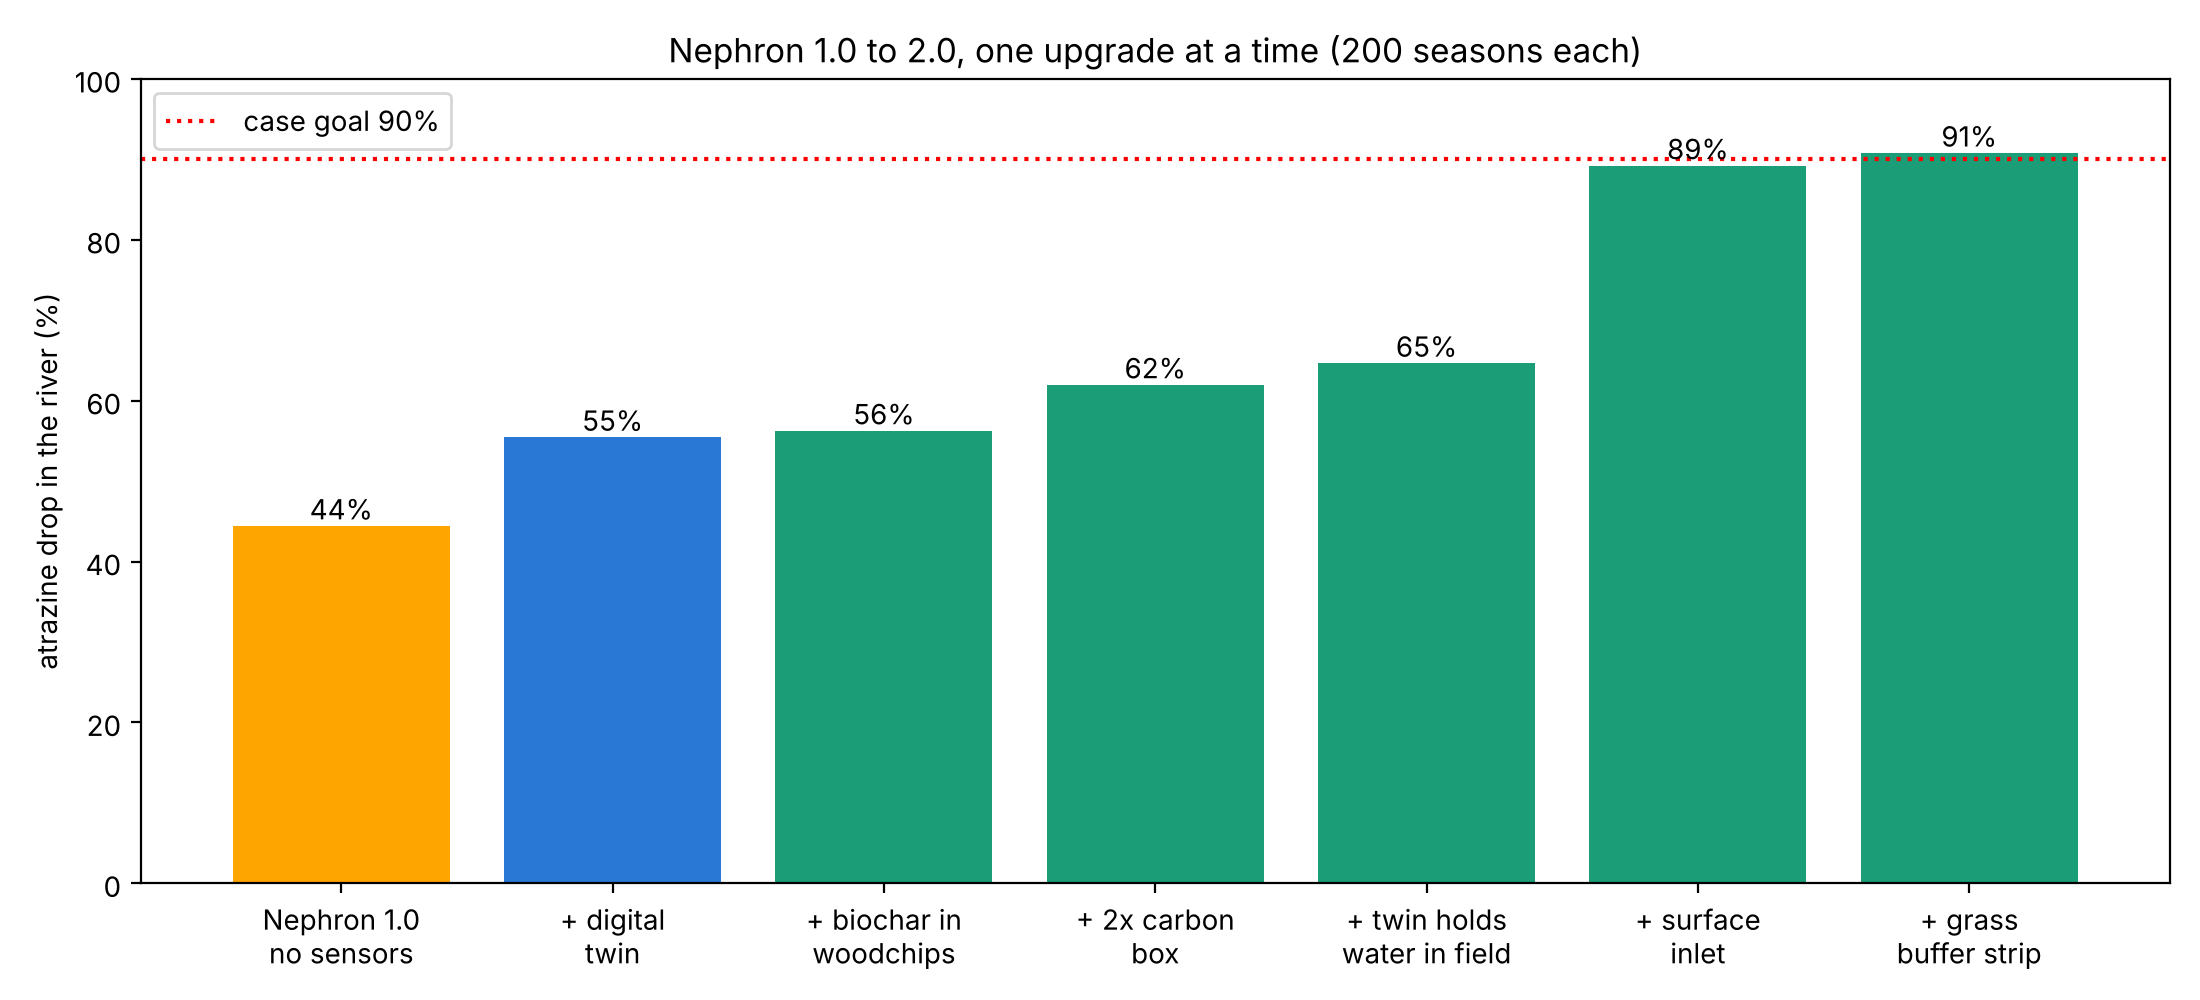
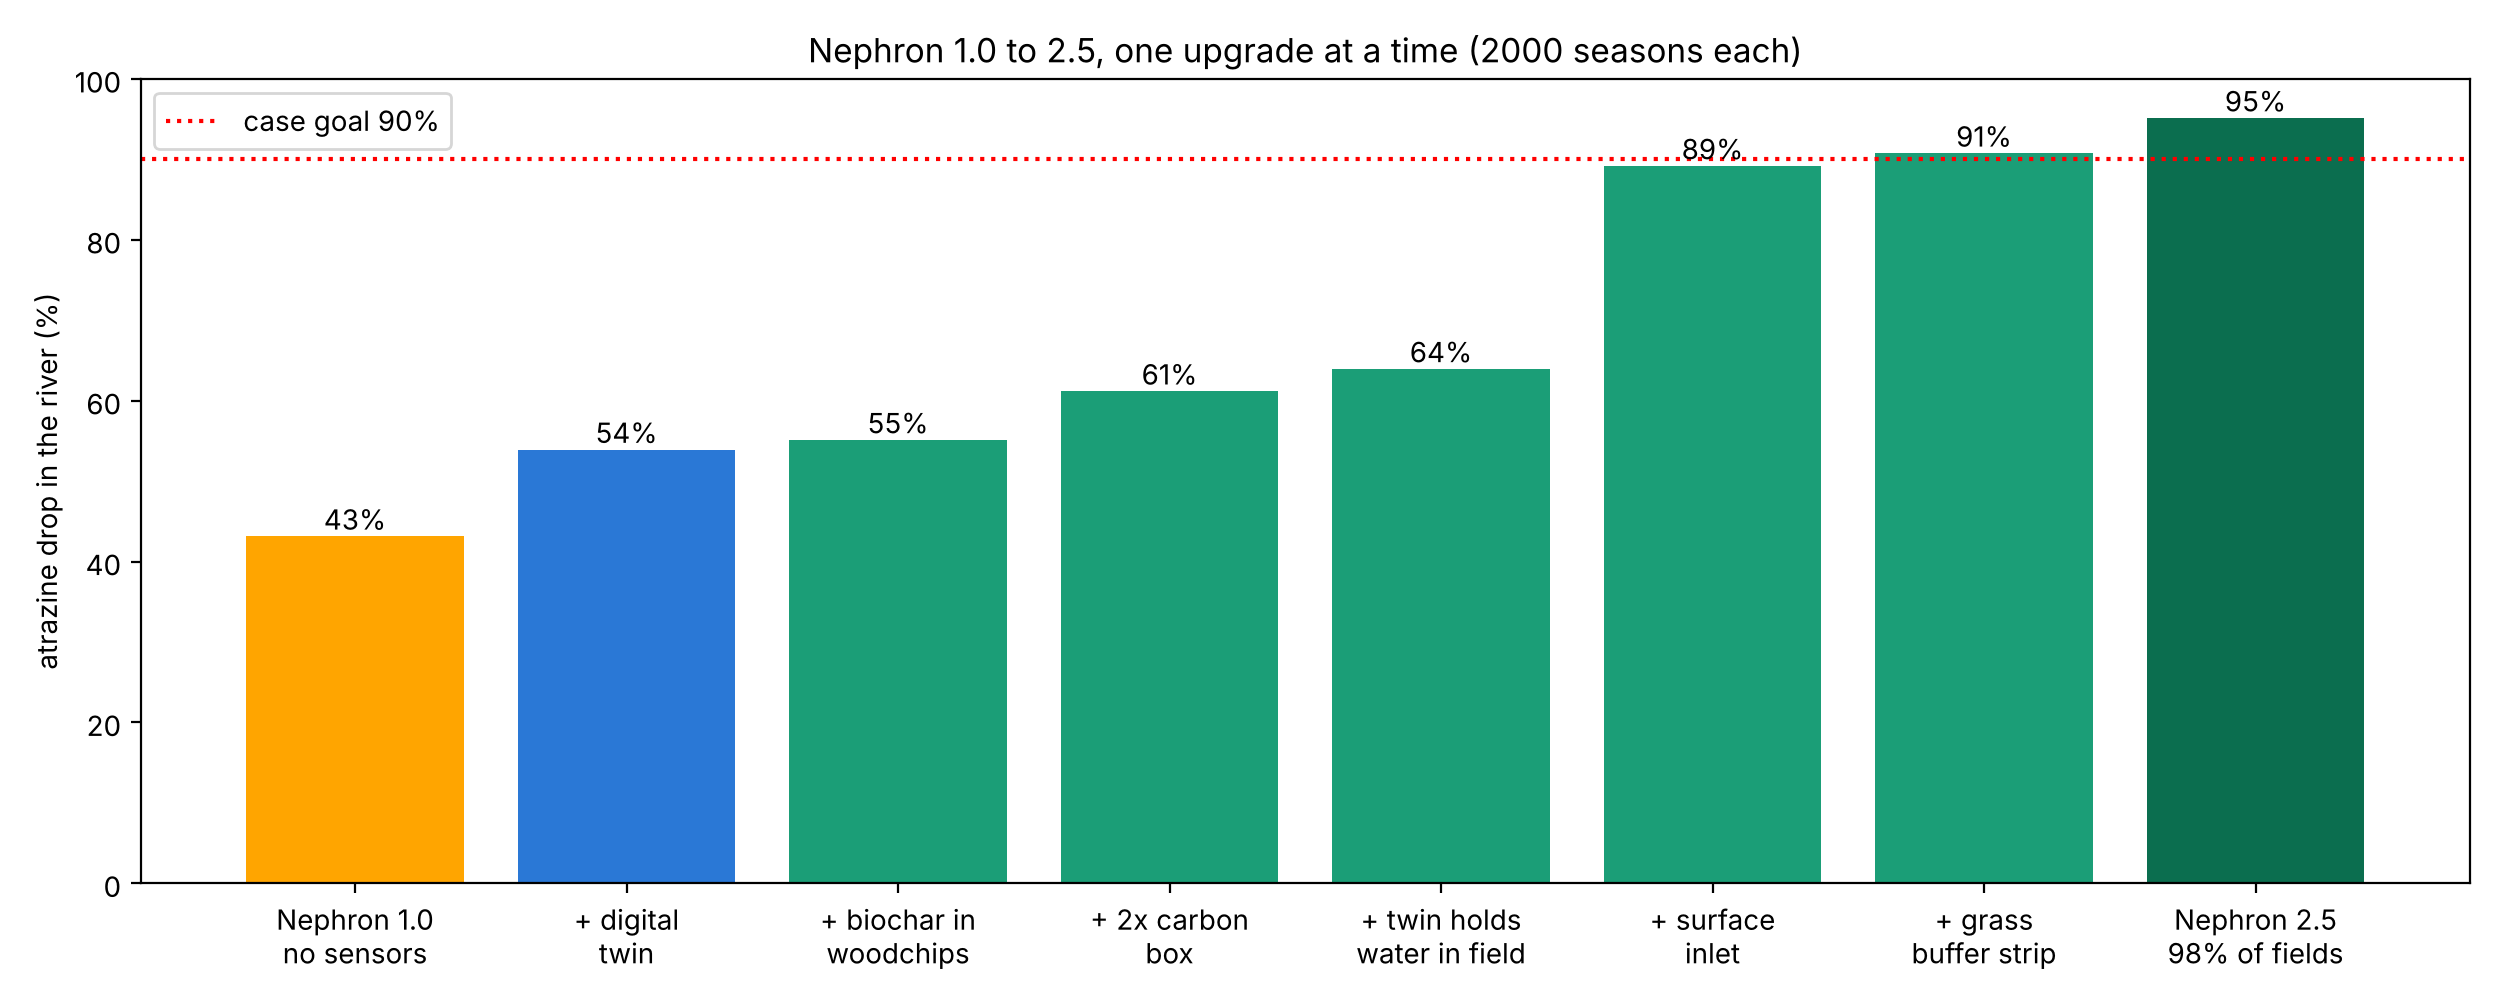
Nephron 2.5: more field storage, later carbon swap, better berm; 2000 seasons; river drop 95%

diff --git a/dcbas_sim.py b/dcbas_sim.py
@@ -8,6 +8,8 @@ SURF_K = 0.28
 
 V1 = dict(wood=0.25, cap=3.5, holds=50, store=0, swap_at=0.85, inlet=0, buffer=0)
 V2 = dict(wood=0.40, cap=5.0, holds=100, store=60, swap_at=0.93, inlet=0.9, buffer=0.5)
+V3 = dict(V2, store=100, swap_at=0.96, inlet=0.95)
+SEASONS = 2000
 
 
 def weather(seed):
@@ -88,15 +90,15 @@ def season(seed, twin, wood, cap, holds, store, swap_at, inlet, buffer):
 
 
 def median_run(twin, design):
-    runs = [season(s, twin, **design) for s in range(200)]
+    runs = [season(s, twin, **design) for s in range(SEASONS)]
     lost = {k: np.median([r[k] for r in runs]) for k in runs[0]}
-    field = 1 - np.median([sum(r.values()) for r in runs])
+    field = np.array([1 - sum(r.values()) for r in runs])
     return field, lost
 
 
 kg = RIVER_CONC * RIVER_FLOW * 86400 / 1e6
 print(f"River: {RIVER_FLOW:.1f} m3/s at {RIVER_CONC} ug/L = {kg:.1f} kg atrazine per day")
-print(f"Nephron on {COVERAGE:.0%} of fields, 200 random seasons each\n")
+print(f"{SEASONS} random seasons per design\n")
 
 steps = [
     ("Nephron 1.0\nno sensors", False, V1),
@@ -106,22 +108,24 @@ steps = [
     ("+ twin holds\nwater in field", True, dict(V2, inlet=0, buffer=0)),
     ("+ surface\ninlet", True, dict(V2, buffer=0)),
     ("+ grass\nbuffer strip", True, V2),
+    ("Nephron 2.5\n98% of fields", True, V3, 0.98),
 ]
 drops = []
-for name, twin, design in steps:
+for name, twin, design, *cov in steps:
     field, lost = median_run(twin, design)
-    river = field * COVERAGE
+    rivers = field * (cov[0] if cov else COVERAGE)
+    river = np.median(rivers)
     drops.append(river * 100)
-    print(f"{name.replace(chr(10), ' '):28s} river drops {river:.1%}  ({RIVER_CONC} -> {RIVER_CONC * (1 - river):.3f} ug/L)")
+    print(f"{name.replace(chr(10), ' '):28s} river drops {river:.1%}  ({RIVER_CONC} -> {RIVER_CONC * (1 - river):.3f} ug/L)  wet year {np.percentile(rivers, 10):.0%}  seasons over 90%: {np.mean(rivers >= 0.9):.0%}")
     print("    lost to: " + ", ".join(f"{k} {max(v, 0):.1%}" for k, v in lost.items()))
 
-plt.figure(figsize=(11, 5))
-bars = plt.bar([s[0] for s in steps], drops, color=["orange", "#2a78d6"] + ["#1b9e77"] * 5)
+plt.figure(figsize=(12.5, 5))
+bars = plt.bar([s[0] for s in steps], drops, color=["orange", "#2a78d6"] + ["#1b9e77"] * 5 + ["#0b6e4f"])
 plt.bar_label(bars, fmt="%.0f%%")
 plt.axhline(90, ls=":", color="red", label="case goal 90%")
 plt.ylabel("atrazine drop in the river (%)")
 plt.ylim(0, 100)
-plt.title("Nephron 1.0 to 2.0, one upgrade at a time (200 seasons each)")
+plt.title(f"Nephron 1.0 to 2.5, one upgrade at a time ({SEASONS} seasons each)")
 plt.legend()
 plt.tight_layout()
 plt.savefig("nephron2_ladder.png", dpi=200)

diff --git a/README.md b/README.md
@@ -10,15 +10,16 @@ Built for the **Waterloo Engineering Competition (Bio-Engineering, Nov 2026)**. 
 
 A filter without sensors is run on a calendar (swap the carbon on a fixed day, let storms overflow). The twin watches flow and filter saturation and acts instead: it **holds water before a forecast storm**, **releases it slowly afterwards**, and **swaps the carbon when removal drops below 85%**.
 
-| Over 200 simulated seasons, Nephron on 95% of fields | River atrazine drop | River concentration |
-|---|---|---|
-| Nephron 1.0, calendar only (no sensors) | 44% | 0.33 µg/L |
-| Nephron 1.0 with the digital twin | 55% | 0.27 µg/L |
-| **Nephron 2.0 with the digital twin** | **91%** | **0.055 µg/L** |
+| 2000 simulated seasons each | River atrazine drop (median) | Wet year (worst 10%) | Seasons over 90% |
+|---|---|---|---|
+| Nephron 1.0, calendar only (no sensors), 95% of fields | 43% | 29% | 0% |
+| Nephron 1.0 with the digital twin, 95% of fields | 54% | 41% | 0% |
+| Nephron 2.0 with the digital twin, 95% of fields | 91% | 87% | 71% |
+| **Nephron 2.5, 98% of fields** | **95%** (0.029 µg/L) | **93%** | **97%** |
 
 Starting point: 2.0 kg/day of atrazine (0.6 µg/L at 38.6 m³/s). The case goal is a 90% drop.
 
-![Nephron 1.0 to 2.0, one upgrade at a time](docs/nephron2-ladder.png)
+![Nephron 1.0 to 2.5, one upgrade at a time](docs/nephron2-ladder.png)
 
 ## Nephron 2.0: what changed
 
@@ -32,11 +33,24 @@ Version 1.0 lost atrazine in three places: surface runoff that never reaches the
 | Surface inlet (riser + low berm) sends ponded runoff into the inlet box | runoff | 90% of surface runoff treated |
 | Grass buffer strip for the rest | runoff | 50% of the remaining runoff removed |
 
-The surface inlet is the biggest step: the filter can only clean water that reaches it. The median season crosses 90%; about 3 seasons in 4 do.
+The surface inlet is the biggest step: the filter can only clean water that reaches it.
+
+## Nephron 2.5: making it hold in wet years
+
+Version 2.0 passes 90% in a typical season but only 71% of seasons. 2.5 changes three settings, no new parts:
+
+| Change | Why |
+|---|---|
+| Field storage 60 → 100 | Wet years overflow first; more held water protects the bad seasons |
+| Twin swaps carbon at 96% instead of 93% | Less leak through a half-used cartridge |
+| Better berm: 95% of surface runoff reaches the inlet | Less runoff escapes |
+| Install on 98% of atrazine fields | Quebec requires an agronomist's prescription for atrazine, so the target fields are on record |
+
+Coverage is the largest single lever: at 100% of fields the same design reaches about 98%.
 
 ## How the models work
 
-- **`dcbas_sim.py`**: one growing season = 183 days. Rain is random (18% chance a day, gamma-distributed amounts); soil moisture turns rain into drain flow, and heavy rain (>12 mm) also makes surface runoff. Atrazine spikes after spraying on day 45 and is washed out by flow. Removal chains the stages (woodchips, carbon falling as it saturates, polishing 50%). Flow above the unit's capacity bypasses it untreated. Every gram is tracked into four buckets (runoff, bypass, leak, still stored at season end), and each design runs 200 random seasons; the printed number is the median.
+- **`dcbas_sim.py`**: one growing season = 183 days. Rain is random (18% chance a day, gamma-distributed amounts); soil moisture turns rain into drain flow, and heavy rain (>12 mm) also makes surface runoff. Atrazine spikes after spraying on day 45 and is washed out by flow. Removal chains the stages (woodchips, carbon falling as it saturates, polishing 50%). Flow above the unit's capacity bypasses it untreated. Every gram is tracked into four buckets (runoff, bypass, leak, still stored at season end), and each design runs 2000 random seasons; the printed number is the median.
 - **`cycle.py`**: the same unit over a full year as an animation: water and atrazine particles move along the treatment or bypass path, the three carbon stages fill up with colour, and the twin's panel shows its current instruction (raise boards, hold water, swap filter, bypass in winter).
 
 ## Run it
